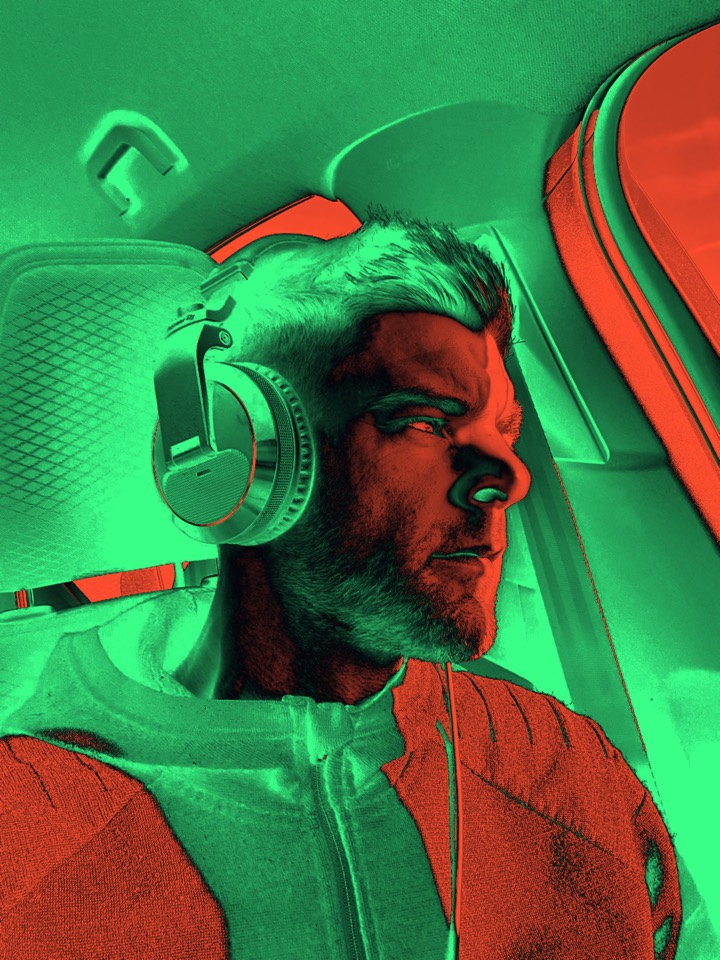
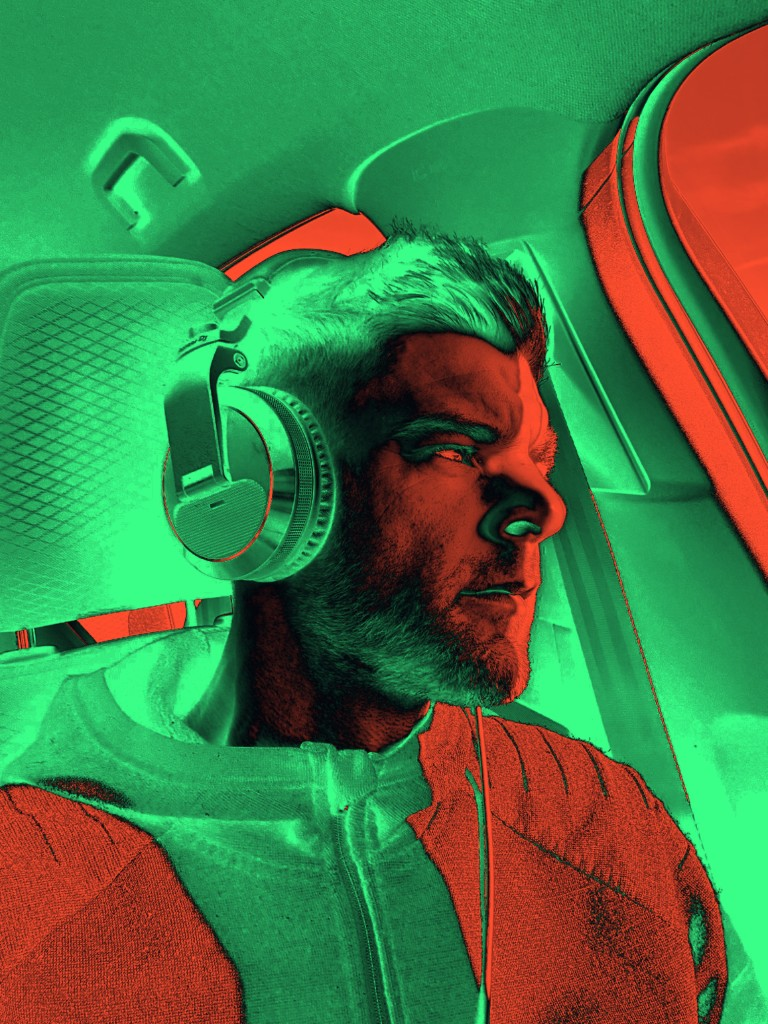
Harden the transmission for production devices and the real wordmark.
Post-processing now fails closed instead of taking the page down, reduced motion holds the relic still, and the supplied mark and portrait drive the identity.

diff --git a/src/lib/scene/createPostProcessing.ts b/src/lib/scene/createPostProcessing.ts
@@ -1,15 +1,15 @@
 import {
+  LinearFilter,
   Mesh,
   OrthographicCamera,
   PlaneGeometry,
+  RGBAFormat,
   Scene,
   ShaderMaterial,
-  Vector2,
-  WebGLRenderTarget,
-  WebGLRenderer,
   SRGBColorSpace,
-  LinearFilter,
-  RGBAFormat,
+  Vector2,
+  WebGLRenderer,
+  WebGLRenderTarget,
 } from "three";
 import { gradeFragment, gradeVertex } from "@/lib/shaders/programs";
 import { disposeTarget } from "@/lib/utils/dispose";
@@ -22,44 +22,88 @@ export interface GradePass {
   dispose: () => void;
 }
 
-export function createPostProcessing(width: number, height: number, dpr: number): GradePass {
-  const target = new WebGLRenderTarget(Math.floor(width * dpr * 0.85), Math.floor(height * dpr * 0.85), {
-    format: RGBAFormat,
-    magFilter: LinearFilter,
-    minFilter: LinearFilter,
-    depthBuffer: true,
-  });
-  target.texture.colorSpace = SRGBColorSpace;
+function targetSize(width: number, height: number, dpr: number, maxTex: number): { w: number; h: number } {
+  const scale = Math.min(dpr, 1.25) * 0.75;
+  let w = Math.floor(width * scale);
+  let h = Math.floor(height * scale);
+  const cap = Math.min(1280, maxTex);
+  const long = Math.max(w, h);
+  if (long > cap) {
+    const k = cap / long;
+    w = Math.max(2, Math.floor(w * k));
+    h = Math.max(2, Math.floor(h * k));
+  }
+  return { w, h };
+}
 
+/** Returns null when an offscreen target cannot be allocated. Callers must render direct. */
+export function createPostProcessing(
+  renderer: WebGLRenderer,
+  width: number,
+  height: number,
+  dpr: number,
+): GradePass | null {
+  const gl = renderer.getContext();
+  let target: WebGLRenderTarget | null = null;
+  try {
+    const maxTex = gl.getParameter(gl.MAX_TEXTURE_SIZE) as number;
+    const maxRb = gl.getParameter(gl.MAX_RENDERBUFFER_SIZE) as number;
+    if (!maxTex || !maxRb || maxTex < 1024) return null;
+    const size = targetSize(width, height, dpr, Math.min(maxTex, maxRb));
+    target = new WebGLRenderTarget(size.w, size.h, {
+      format: RGBAFormat,
+      magFilter: LinearFilter,
+      minFilter: LinearFilter,
+      depthBuffer: true,
+      stencilBuffer: false,
+    });
+    target.texture.colorSpace = SRGBColorSpace;
+    renderer.setRenderTarget(target);
+    const status = gl.checkFramebufferStatus(gl.FRAMEBUFFER);
+    renderer.setRenderTarget(null);
+    if (status !== gl.FRAMEBUFFER_COMPLETE) {
+      disposeTarget(target);
+      return null;
+    }
+  } catch {
+    renderer.setRenderTarget(null);
+    disposeTarget(target);
+    return null;
+  }
+
+  const live = target;
   const material = new ShaderMaterial({
     uniforms: {
-      tDiffuse: { value: target.texture },
+      tDiffuse: { value: live.texture },
       uTime: { value: 0 },
       uChroma: { value: 0 },
-      uGrain: { value: 0.045 },
+      uGrain: { value: 0.035 },
       uResolution: { value: new Vector2(width, height) },
     },
     vertexShader: gradeVertex,
     fragmentShader: gradeFragment,
     depthTest: false,
     depthWrite: false,
+    toneMapped: false,
   });
   const scene = new Scene();
   const camera = new OrthographicCamera(-1, 1, 1, -1, 0, 1);
   scene.add(new Mesh(new PlaneGeometry(2, 2), material));
 
   return {
-    render(renderer, drawScene) {
-      const previous = renderer.getRenderTarget();
-      renderer.setRenderTarget(target);
-      renderer.clear();
+    render(active, drawScene) {
+      const previous = active.getRenderTarget();
+      active.setRenderTarget(live);
+      active.clear();
       drawScene();
-      renderer.setRenderTarget(previous);
-      renderer.clear();
-      renderer.render(scene, camera);
+      active.setRenderTarget(previous);
+      active.clear();
+      active.render(scene, camera);
     },
     setSize(nextWidth, nextHeight, nextDpr) {
-      target.setSize(Math.floor(nextWidth * nextDpr * 0.85), Math.floor(nextHeight * nextDpr * 0.85));
+      const maxTex = gl.getParameter(gl.MAX_TEXTURE_SIZE) as number;
+      const size = targetSize(nextWidth, nextHeight, nextDpr, maxTex || 2048);
+      live.setSize(size.w, size.h);
     },
     setChroma(amount) {
       material.uniforms.uChroma.value = amount;
@@ -69,7 +113,7 @@ export function createPostProcessing(width: number, height: number, dpr: number)
     },
     dispose() {
       material.dispose();
-      disposeTarget(target);
+      disposeTarget(live);
     },
   };
 }

diff --git a/src/lib/scene/SceneController.ts b/src/lib/scene/SceneController.ts
@@ -47,8 +47,8 @@ export class SceneController {
     this.field = createStarfield(limits.stars, limits.dust, limits.signal);
     this.scene.add(this.field.group);
     this.scene.add(this.relic.group);
-    if (limits.post) {
-      this.grade = createPostProcessing(window.innerWidth, window.innerHeight, this.renderer.getPixelRatio());
+    if (limits.post && !state.reduced) {
+      this.grade = createPostProcessing(this.renderer, window.innerWidth, window.innerHeight, this.renderer.getPixelRatio());
     }
   }
 
@@ -80,7 +80,11 @@ export class SceneController {
     this.camera.updateProjectionMatrix();
     this.renderer.setPixelRatio(dpr);
     this.renderer.setSize(width, height, false);
-    this.grade?.setSize(width, height, dpr);
+    try {
+      this.grade?.setSize(width, height, dpr);
+    } catch {
+      this.dropGrade();
+    }
     this.state.dirty = true;
     if (this.state.reduced) this.renderOnce();
   };
@@ -123,7 +127,7 @@ export class SceneController {
   };
 
   private compose(dt: number): void {
-    this.time += this.state.reduced ? dt * 0.15 : dt;
+    this.time += this.state.reduced ? 0 : dt;
     const scroll = this.state.scroll;
     const targetOpen = scroll < 0.2 ? scroll / 0.2 : scroll < 0.72 ? 1 : 1 - (scroll - 0.72) / 0.28;
     const targetReveal = MathUtils.clamp((scroll - 0.42) / 0.22, 0, 1);
@@ -155,9 +159,9 @@ export class SceneController {
     const spread = 1 + this.open * 0.18 + this.state.pulse * 0.08 + this.state.audioLow * 0.06;
     relic.scale.setScalar(narrow ? 0.78 * spread : spread);
     relic.position.x = narrow ? 0 : -0.55 - this.reveal * 0.55;
-    relic.position.y = Math.sin(this.time * 0.45) * (this.state.reduced ? 0.01 : 0.06);
-    relic.rotation.y = this.spin + px * 0.35 + this.state.seed * 0.2;
-    relic.rotation.x = 0.18 + py * 0.2;
+    relic.position.y = this.state.reduced ? 0 : Math.sin(this.time * 0.45) * 0.06;
+    relic.rotation.y = this.state.reduced ? this.state.seed * 0.2 : this.spin + px * 0.35 + this.state.seed * 0.2;
+    relic.rotation.x = this.state.reduced ? 0.18 : 0.18 + py * 0.2;
 
     this.relic.coreMat.uniforms.uTime.value = this.time;
     this.relic.coreMat.uniforms.uOpen.value = this.open;
@@ -195,9 +199,9 @@ export class SceneController {
       this.figure.material.uniforms.uTime.value = this.time;
       this.figure.material.uniforms.uReveal.value = this.reveal;
       this.figure.material.uniforms.uOpacity.value = this.figureOpacity;
-      this.figure.material.uniforms.uDisp.value = this.state.reduced ? 0 : 0.025 + this.state.audioLow * 0.05;
-      this.figure.material.uniforms.uSplit.value = 0.003 + this.state.chroma * 0.02 + this.state.audioHigh * 0.008;
-      this.figure.material.uniforms.uGrid.value = 0.08 + (0.5 + 0.5 * Math.sin(this.time * 0.35)) * 0.45;
+      this.figure.material.uniforms.uDisp.value = this.state.reduced ? 0 : 0.008 + this.state.audioLow * 0.02;
+      this.figure.material.uniforms.uSplit.value = this.state.reduced ? 0.001 : 0.002 + this.state.audioHigh * 0.004;
+      this.figure.material.uniforms.uGrid.value = this.state.reduced ? 0.05 : 0.12;
       this.figure.material.uniforms.uAudio.value = this.state.audioMid;
       if (this.figure.pointsMat) {
         this.figure.pointsMat.uniforms.uTime.value = this.time;
@@ -211,11 +215,26 @@ export class SceneController {
   }
 
   private draw(): void {
-    if (this.grade) {
+    if (!this.grade) {
+      this.renderer.render(this.scene, this.camera);
+      return;
+    }
+    try {
       this.grade.render(this.renderer, () => this.renderer.render(this.scene, this.camera));
-    } else {
+    } catch {
+      this.dropGrade();
+      this.renderer.setRenderTarget(null);
       this.renderer.render(this.scene, this.camera);
     }
+  }
+
+  private dropGrade(): void {
+    try {
+      this.grade?.dispose();
+    } catch {
+      /* target already invalid */
+    }
+    this.grade = null;
   }
 
   dispose(): void {

diff --git a/src/styles/global.css b/src/styles/global.css
@@ -115,12 +115,26 @@ html[data-tier="high"] .grain { opacity: 0.08; }
 .chrome-br { bottom: calc(env(safe-area-inset-bottom) + 0.9rem); right: var(--pad); max-width: 11rem; text-align: right; }
 
 .word {
-  font-family: var(--font-display);
-  font-weight: 800;
-  letter-spacing: -0.04em;
-  text-decoration: none;
-  color: var(--ember);
-  font-size: 1.05rem;
+  width: 7.2rem;
+  height: auto;
+  display: block;
+}
+
+.identity {
+  margin: 0;
+  width: min(92vw, 44rem);
+}
+
+.identity img,
+.identity-quiet {
+  width: 100%;
+  height: auto;
+  display: block;
+}
+
+.identity-quiet {
+  width: min(70vw, 22rem);
+  margin: 0.4rem 0 0.2rem;
 }
 
 .icon-btn, .text-btn {

diff --git a/src/lib/shaders/programs.ts b/src/lib/shaders/programs.ts
@@ -161,11 +161,11 @@ varying float vAlpha;
 
 void main() {
   vec3 p = position;
-  p.z += sin(uTime * 0.5 + position.y * 6.0) * 0.03 * aLum;
+  p.z += sin(uTime * 0.5 + position.y * 6.0) * 0.012 * aLum;
   vec4 mv = modelViewMatrix * vec4(p, 1.0);
   gl_Position = projectionMatrix * mv;
   float reveal = smoothstep(0.0, 0.15, uReveal - (0.5 - position.y * 0.5));
-  gl_PointSize = uSize * aLum * reveal * (240.0 / max(1.0, -mv.z));
+  gl_PointSize = uSize * aLum * reveal * (72.0 / max(1.0, -mv.z));
   vLum = aLum;
   vAlpha = reveal;
 }

diff --git a/src/config/artist.ts b/src/config/artist.ts
@@ -10,6 +10,8 @@ export const artist = {
   credit: "ORIGINUL",
   portrait: "/assets/images/figure.jpg",
   portraitAlt: "/assets/images/figure-alt.jpg",
+  wordmark: "/assets/brand/wordmark.png",
+  wordmarkQuiet: "/assets/brand/wordmark-quiet.png",
   mark: "/assets/brand/mark.svg",
   scanner: "/assets/brand/scanner.svg",
   originulMark: "/assets/brand/originul.svg",

diff --git a/src/lib/boot.ts b/src/lib/boot.ts
@@ -77,6 +77,11 @@ export function boot(): void {
     scene = new SceneController(canvas, state, () => undefined);
     void scene.mountFigure().then(() => scene.start());
   });
+  canvas.addEventListener("webglcontextlost", (event) => {
+    event.preventDefault();
+    scene.stop();
+    showFallback(true);
+  });
 
   let hintGone = false;
   let menuOpen = false;
